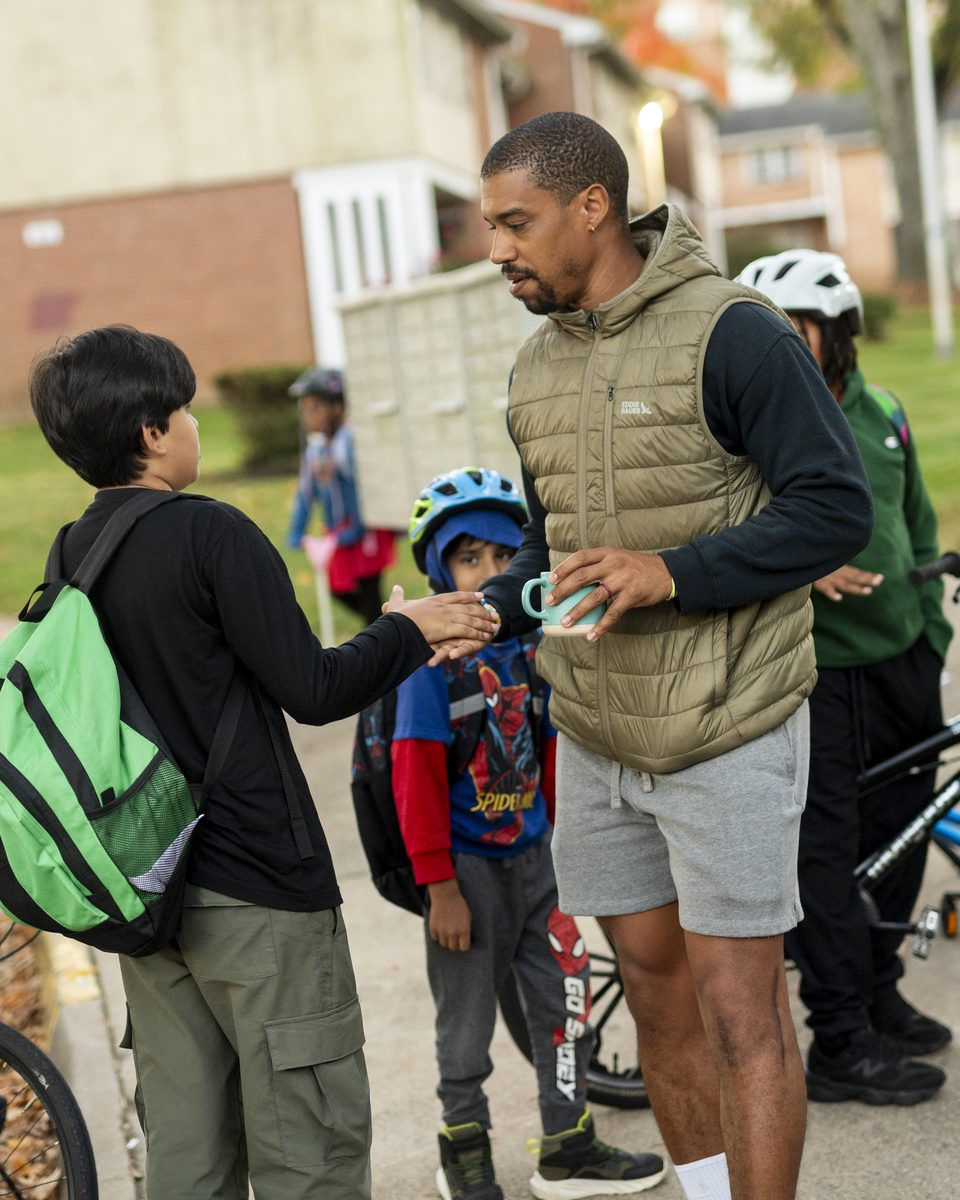
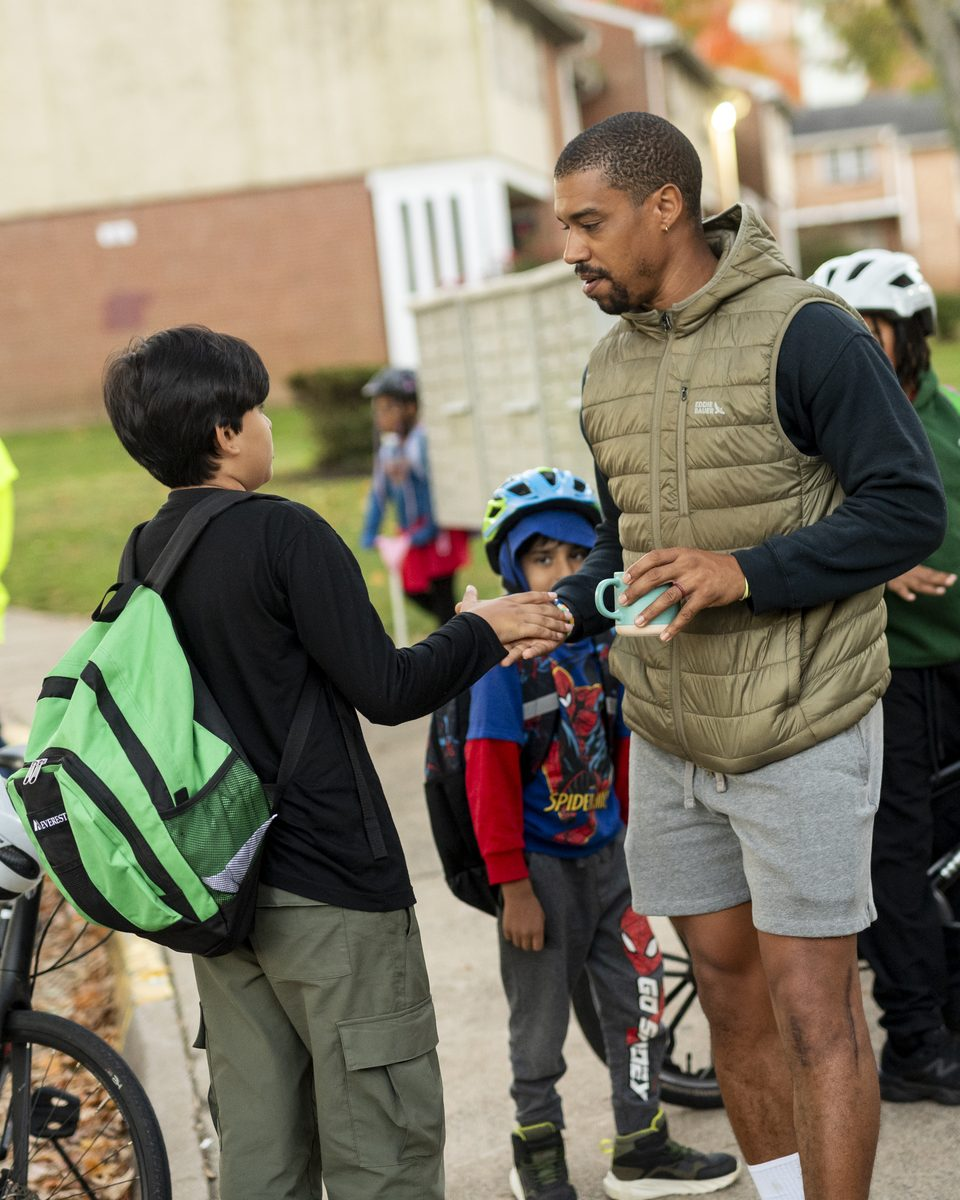
Reframe quote photo and What We Do CTA background (#15)
Apply the framing Grace set in the photo framer:
- Community Schools quote photo: re-cropped from the original so the
  frame shows 18.2-71.5% across (shifted left from 22-76%).
- What We Do "Help move this work forward" background: now the full
  3:2 original (2400x1600) at background-position center 47.6%, so it
  shows 14.8-83.7% down at 1440px wide.

Claude-Session: https://claude.ai/code/session_01RBnrJKLxsgb1KBMdkqoV2F

diff --git a/what-we-do.html b/what-we-do.html
@@ -175,7 +175,7 @@ editPage: what-we-do.html
   .final-cta .bg {
     position: absolute; inset: 0;
     background-image: url('assets/wwd-cta-kids-football.jpg');
-    background-size: cover; background-position: center 40%;
+    background-size: cover; background-position: center 47.6%;
   }
   .final-cta .scrim {
     position: absolute; inset: 0;

diff --git a/docs/what-we-do.html b/docs/what-we-do.html
@@ -257,7 +257,7 @@
   .final-cta .bg {
     position: absolute; inset: 0;
     background-image: url('assets/wwd-cta-kids-football.jpg');
-    background-size: cover; background-position: center 40%;
+    background-size: cover; background-position: center 47.6%;
   }
   .final-cta .scrim {
     position: absolute; inset: 0;
